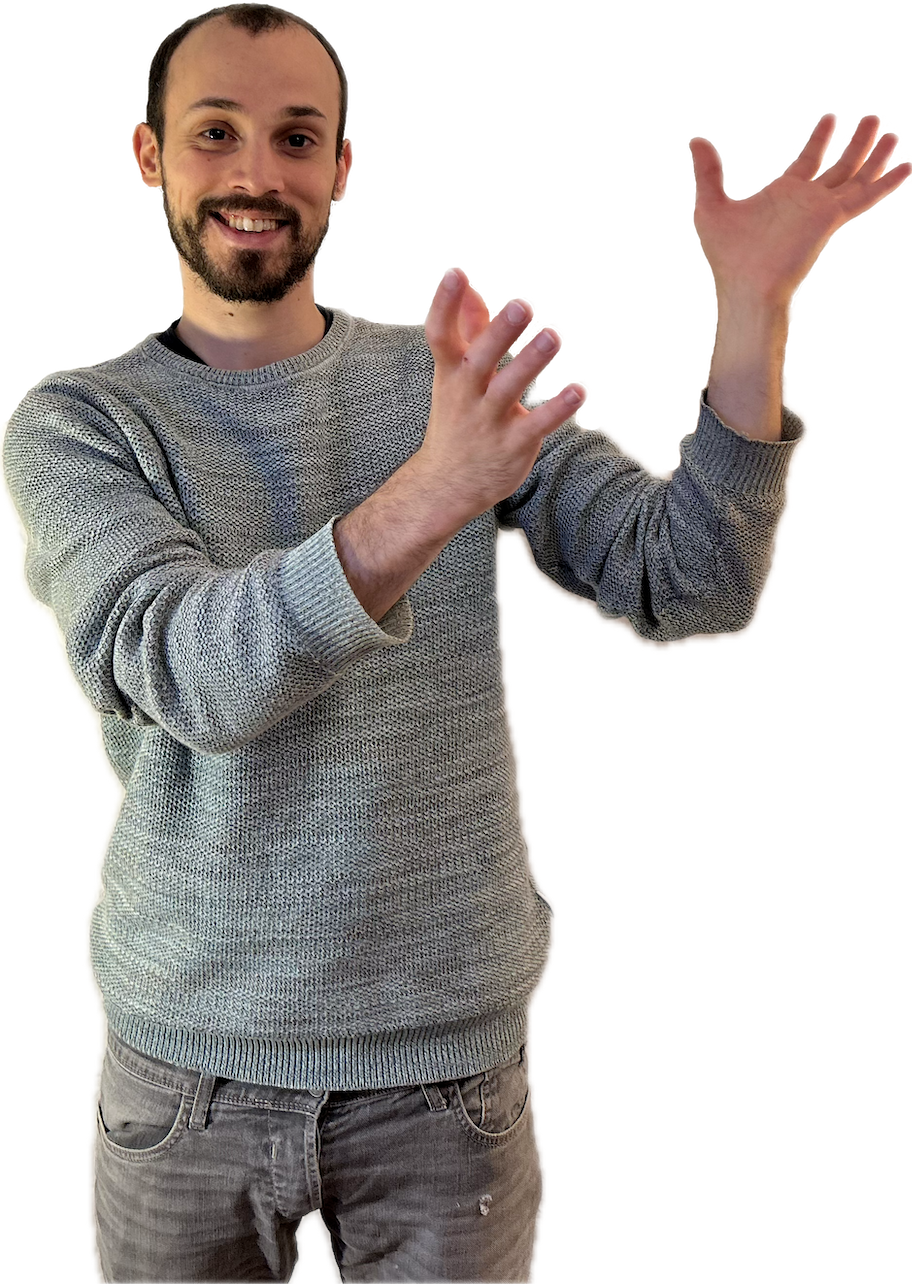
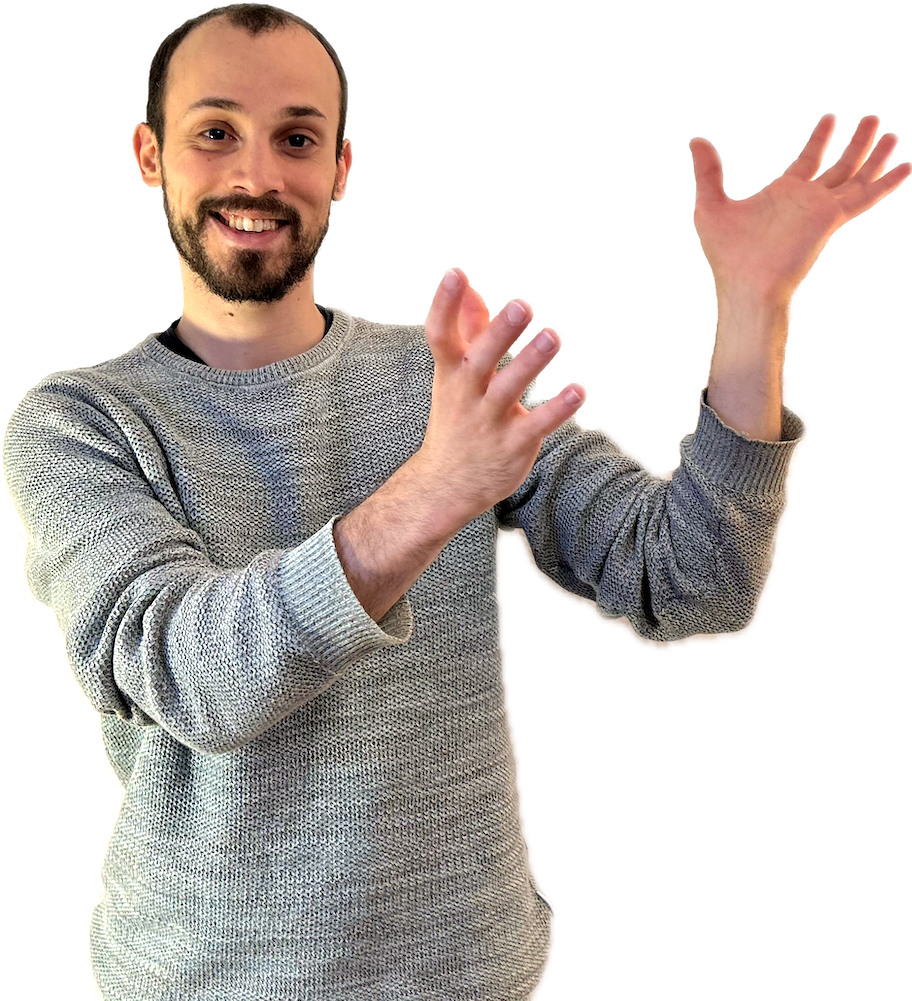
optimize hero image

diff --git a/src/app/three/scene.ts b/src/app/three/scene.ts
@@ -21,7 +21,7 @@ export const animateScene = (
       // boundingClientRect.height * 0.4 -
       // ideally should be using inferred height but for some reason
       // the image height is not correctly inferred on page load
-      642 * 0.4 -
+      510 * 0.4 -
       document.body.getBoundingClientRect().top,
   ];
 

diff --git a/src/app/three/camera.ts b/src/app/three/camera.ts
@@ -21,7 +21,7 @@ const CAMERA_CONFIGURATIONS = {
   // Bottom of rubix cube render screen with maximum width
   end1: {
     position: new THREE.Vector3(800, 170, 1150),
-    target: new THREE.Vector3(460, 220, 700),
+    target: new THREE.Vector3(480, 230, 700),
   },
 } as const;
 

diff --git a/src/app/sections/about-me/about-me.component.html b/src/app/sections/about-me/about-me.component.html
@@ -9,7 +9,7 @@
       i18n-alt
       alt="Me"
       width="456"
-      height="640"
+      height="500"
       priority
       class="object-contain object-top md:float-left xl:float-none me-8"
     />
